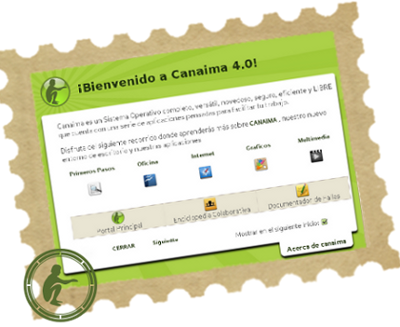
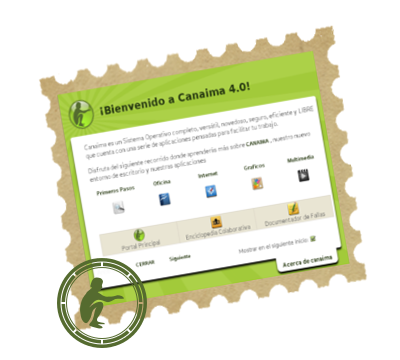
Cambias img y correccioens

diff --git a/index.html b/index.html
@@ -30,7 +30,7 @@
     <div class="step slide" data-x="-1000" data-y="-500">
         <h3>Canaima GNU/Linux 4.0</h3>
         <br>
-        <p>Canaima 4.0 esta basada en debian (7) de nombre código “Kerepakupai” en honor al Kerepakupai Vená, nombre originario (Pemón) de la caída de agua más alta del mundo, ubicada en el Parque Nacional Canaima, en Venezuela.</p>
+        <p>Canaima 4.0 está basada en debian (7) de nombre código “Kerepakupai” en honor al Kerepakupai Vená, nombre originario (Pemón) de la caída de agua más alta del mundo, ubicada en el Parque Nacional Canaima, en Venezuela.</p>
         <img id="salto-angel" src="images/salto-angel-2.png">
     </div>
 
@@ -128,9 +128,9 @@
     </div>
     
     <div class="step slide" data-x="-2000" data-y="3900">
-         <h3>Gnome Shell Extensions Gnamon</h3>
-         <p id="app">Es un paquete que contiene un conunto de extensiones para el tema Gnamon. Surge tras el 1er laboratorio de usabilidad , en cual las pruebas y encuestas realizados arrojaron las necesidades de los usuarios de tener un entorno mas amigable y accesibles.</p>
-         <img id="gnamon-app-img"src="images/gnamon-app.png">
+         <h3>Gnome Shell Gnamon</h3>
+         <p id="app">Es un conjunto de paquete que contiene las extensiones , el tema y las fuentes de Gnamon. Surgen tras el 1er laboratorio de usabilidad , en el cual las pruebas y encuestas realizados arrojaron las necesidades de los usuarios de tener un entorno mas amigable y accesibles.</p>
+         <img id="gnamon-app-img"src="images/gnamon-monitor.png">
     </div>
 
     <div class="step bigtitle" data-x="-8000" data-y="-1000" data-rotate="0" data-scale="4">
@@ -200,8 +200,14 @@
     </div>
 
     <div class="step slide" data-x="500" data-y="5500">
-        <h3 id="canaima-estable-text">Canaima GNU/Linux Estable</h3>
+        <h3 id="canaima-estable-text">Canaima GNU/Linux 4.0</h3>
         <img id="canaima-estable" src="images/canaima-estable.png">
+        <img id="iso_1" src="images/iso.png">
+        <img id="iso_2" src="images/iso.png">
+        <img id="iso_3" src="images/iso.png">
+        <p id="text_iso_1">amd64</p>
+        <p id="text_iso_2">i386</p>
+        <p id="text_iso_3">pae</p>
     </div>
 
     <div id="overview" class="step" data-x="-3000" data-y="2000" data-scale="12"></div>

diff --git a/css/impress.css b/css/impress.css
@@ -810,7 +810,7 @@ img#paquetes{
 img#canaima-bienvenido-img{
     position: relative;
     right:-25%;
-    margin-top: 0%;
+    margin-top: -2%;
 }
 img#jockey-app{
     position: relative;
@@ -833,9 +833,9 @@ img#prometeo-abc-gnome{
     top:45%;
 }
 img#canaima-estable{
-    position:absolute;
-    right: 23%;
-    top:28%;
+    position:relative;
+    right: -22%;
+    margin-top:8%;
 }
 img#libreoffice-img{
     position:relative;
@@ -849,8 +849,8 @@ img#laboratorio-img{
 }
 img#gnamon-app-img{
     position:relative;
-    right: -35%;
-    margin-top: 5%;
+    right: -30%;
+    margin-top: 1%;
 }
 img#cayapa-img{
     position:relative;
@@ -865,6 +865,36 @@ img#cayapa-img-3{
     position:absolute;
     right: 2%;
     top:2%;
+}
+img#iso_1{
+    position:absolute;
+    right: 75%;
+    top:75%;
+}
+img#iso_2{
+    position:absolute;
+    right: 45%;
+    top:75%;
+}
+img#iso_3{
+    position:absolute;
+    right: 13%;
+    top:75%;
+}
+p#text_iso_1{
+    position:absolute;
+    right: 13%;
+    top:90%;
+}
+p#text_iso_2{
+    position:absolute;
+    right: 47%;
+    top:90%;
+}
+p#text_iso_3{
+    position:absolute;
+    right: 77%;
+    top:90%;
 }
 
 h3#canaima-estable-text{
